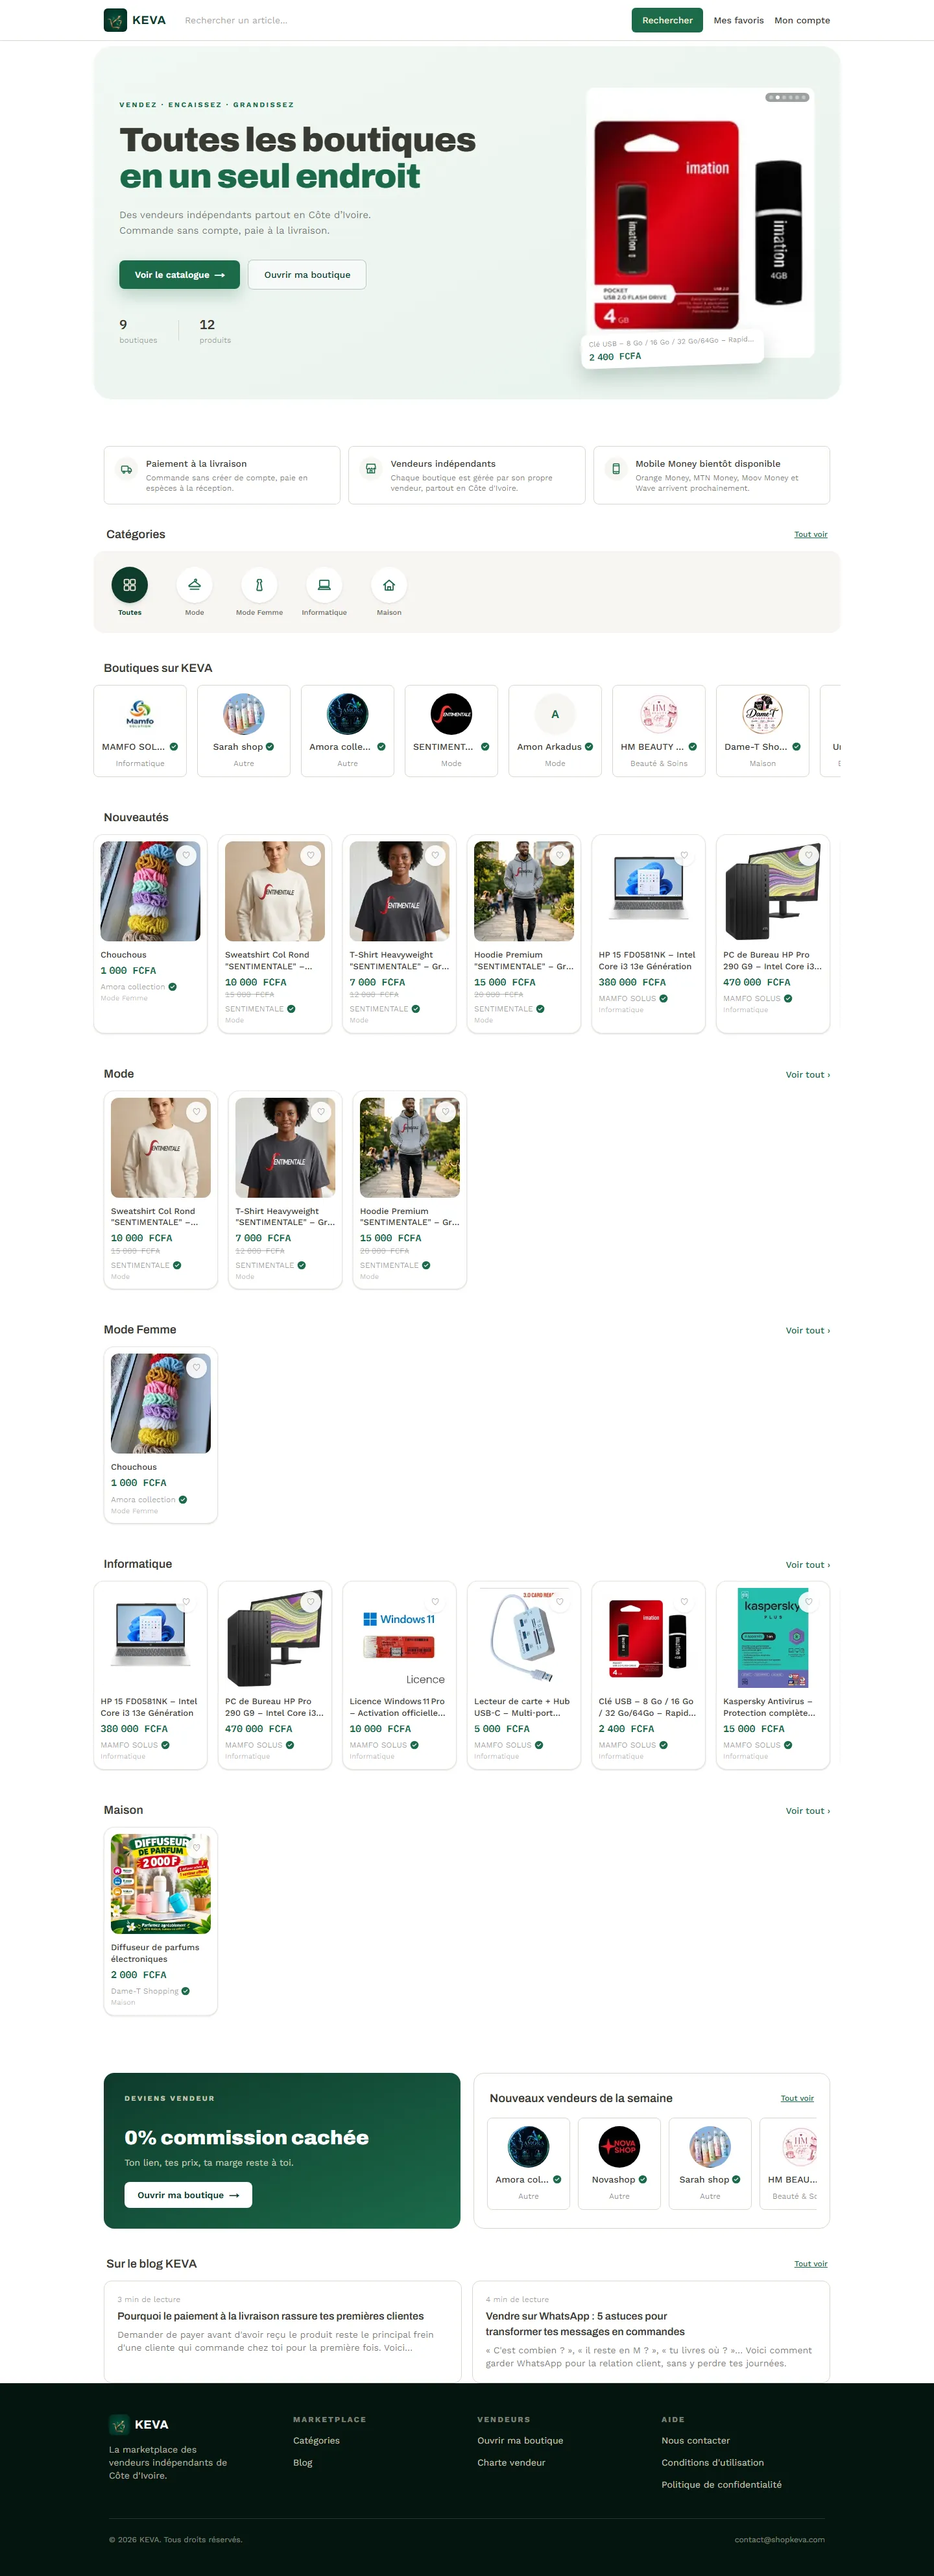
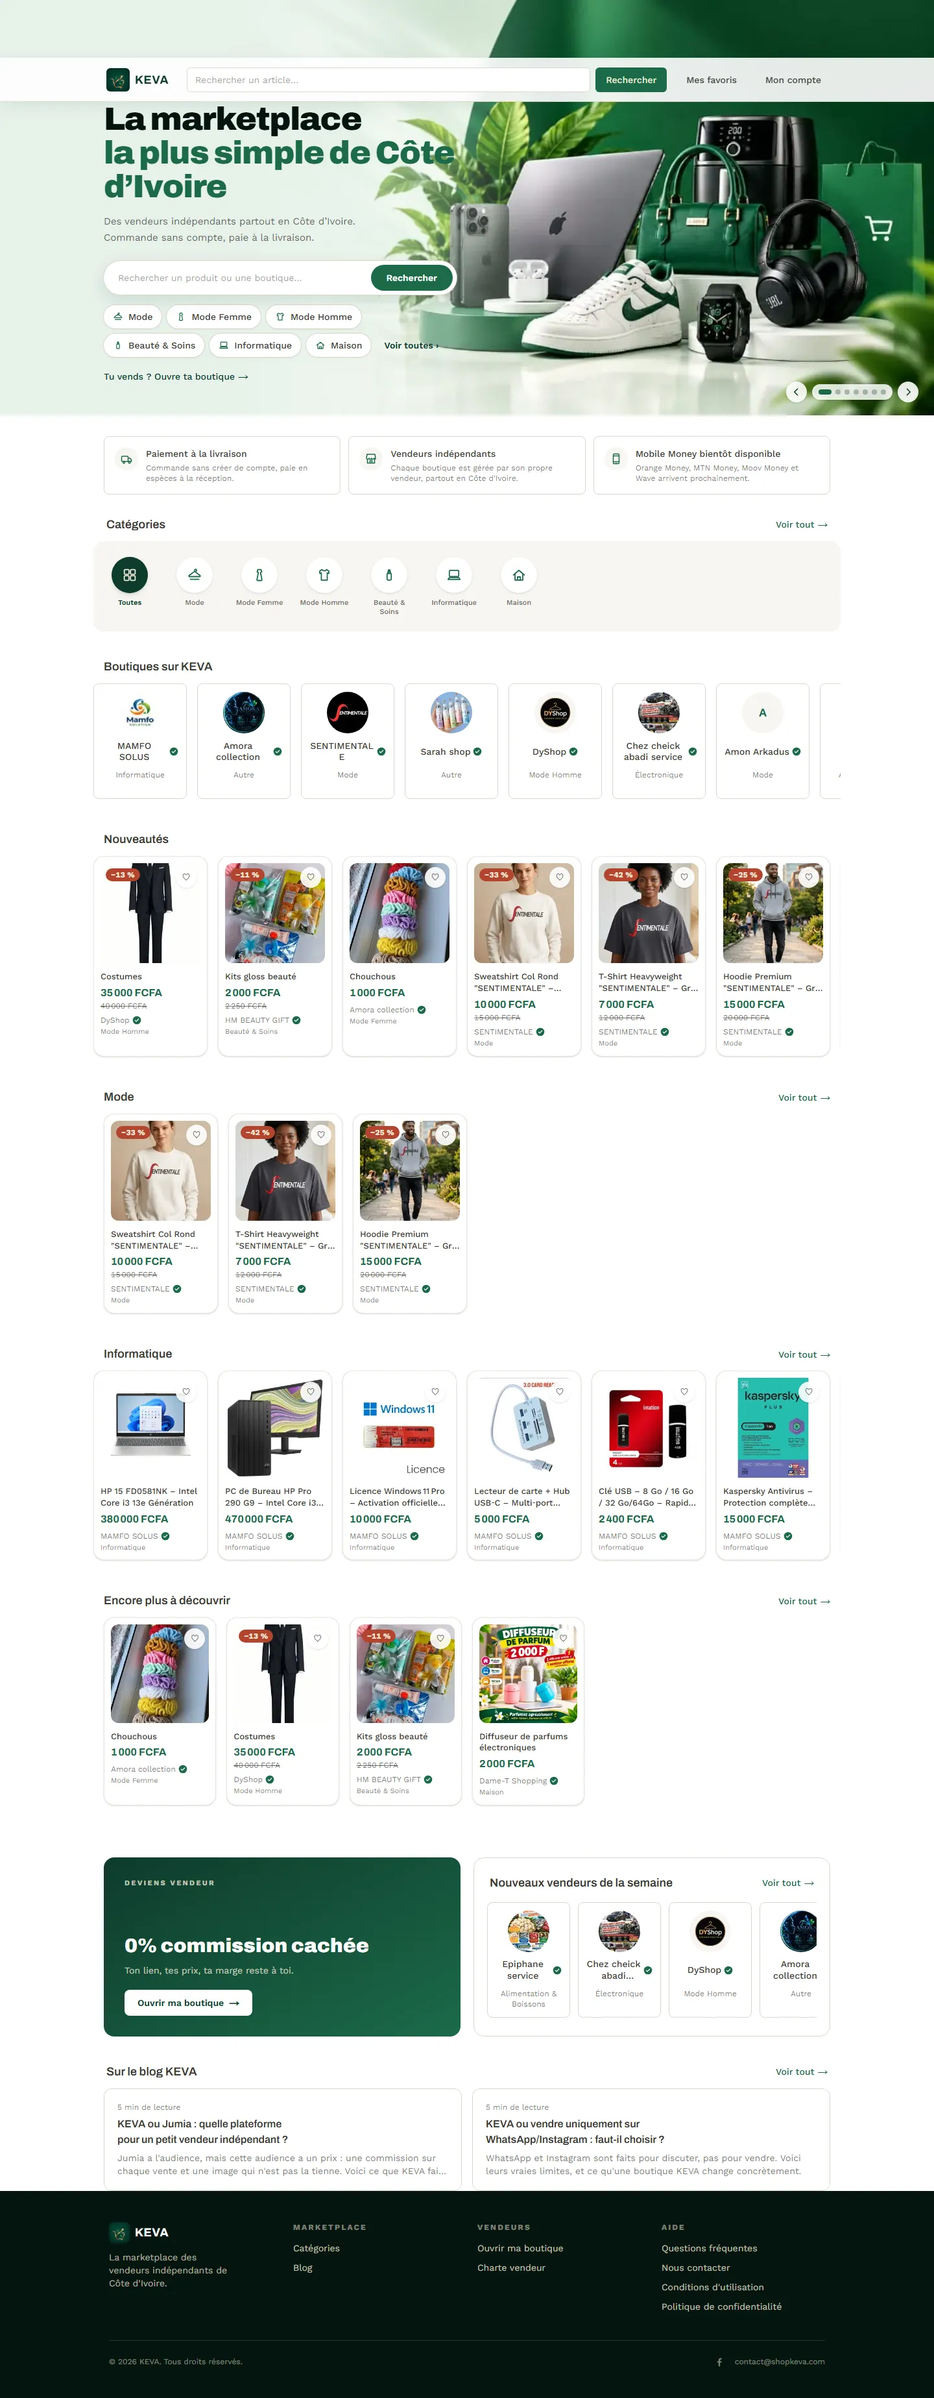
Portfolio : mise à jour de KEVA (nouvelles captures, description, sans commission)

diff --git a/js/projects-data.js b/js/projects-data.js
@@ -74,7 +74,7 @@ const PROJECTS = [
     year: "2026",
     tag: "SaaS · Marketplace",
     sectors: ["Marketplace", "Outil SaaS"],
-    pitch: "Une plateforme où chaque vendeur ouvre sa boutique en ligne et où les acheteurs commandent sans compte et paient à la livraison.",
+    pitch: "La marketplace des vendeurs indépendants de Côte d'Ivoire : chacun ouvre sa boutique sans commission, et les acheteurs commandent sans compte et paient à la livraison.",
     thumb: "images/projets/dev_web/keva/0-thumb.webp",
     gallery: [
       "images/projets/dev_web/keva/1.webp",
@@ -82,8 +82,8 @@ const PROJECTS = [
       "images/projets/dev_web/keva/3.webp",
       "images/projets/dev_web/keva/4.webp"
     ],
-    description: "Plateforme SaaS de marketplace et de boutiques en ligne pour la Côte d'Ivoire : chaque vendeur ouvre sa propre boutique (page dédiée, catalogue, fiches produit, contact WhatsApp), et les acheteurs parcourent toutes les boutiques au même endroit, par catégories, nouveautés et meilleures ventes, avec favoris et recherche. Commande sans création de compte et paiement à la livraison, charte vendeur et blog de conseils pour vendre en ligne. Pensée d'abord pour le mobile, avec une barre de navigation en bas de l'écran.",
-    tech: ["Next.js", "React", "Multi-vendeurs", "Paiement à la livraison", "Responsive design"],
+    description: "Marketplace pour les vendeurs indépendants de Côte d'Ivoire. Chaque vendeur ouvre sa propre boutique (page dédiée, catalogue, fiches produit, contact WhatsApp, livraison et prix affichés) sans commission sur ses ventes, et crée son compte en quelques minutes, par e-mail ou avec Google. Les acheteurs parcourent toutes les boutiques au même endroit : catégories, boutiques en vedette, nouveautés, meilleures ventes, nouveaux vendeurs de la semaine, favoris et recherche. Commande sans création de compte et paiement à la livraison ; le Mobile Money est annoncé. Charte vendeur, foire aux questions et blog de conseils pour vendre en ligne. Pensée d'abord pour le mobile.",
+    tech: ["Next.js", "React", "Multi-vendeurs", "Paiement à la livraison", "Connexion Google", "Responsive design"],
     link: "https://shopkeva.com/",
     linkLabel: "Découvrir la plateforme"
   },

diff --git a/index.html b/index.html
@@ -330,10 +330,10 @@
 </article>
 <article>
 <h3>KEVA — Plateforme SaaS · marketplace (2026)</h3>
-<p>Une plateforme où chaque vendeur ouvre sa boutique en ligne et où les acheteurs commandent sans compte et paient à la livraison.</p>
-<p>Plateforme SaaS de marketplace et de boutiques en ligne pour la Côte d'Ivoire : chaque vendeur ouvre sa propre boutique (page dédiée, catalogue, fiches produit, contact WhatsApp), et les acheteurs parcourent toutes les boutiques au même endroit, par catégories, nouveautés et meilleures ventes, avec favoris et recherche. Commande sans création de compte et paiement à la livraison, charte vendeur et blog de conseils pour vendre en ligne. Pensée d'abord pour le mobile, avec une barre de navigation en bas de l'écran.</p>
+<p>La marketplace des vendeurs indépendants de Côte d'Ivoire : chacun ouvre sa boutique sans commission, et les acheteurs commandent sans compte et paient à la livraison.</p>
+<p>Marketplace pour les vendeurs indépendants de Côte d'Ivoire. Chaque vendeur ouvre sa propre boutique (page dédiée, catalogue, fiches produit, contact WhatsApp, livraison et prix affichés) sans commission sur ses ventes, et crée son compte en quelques minutes, par e-mail ou avec Google. Les acheteurs parcourent toutes les boutiques au même endroit : catégories, boutiques en vedette, nouveautés, meilleures ventes, nouveaux vendeurs de la semaine, favoris et recherche. Commande sans création de compte et paiement à la livraison ; le Mobile Money est annoncé. Charte vendeur, foire aux questions et blog de conseils pour vendre en ligne. Pensée d'abord pour le mobile.</p>
 <p>Secteur : Marketplace, Outil SaaS.</p>
-<p>Technologies : Next.js, React, Multi-vendeurs, Paiement à la livraison, Responsive design.</p>
+<p>Technologies : Next.js, React, Multi-vendeurs, Paiement à la livraison, Connexion Google, Responsive design.</p>
 <p><a href="https://shopkeva.com/">Découvrir la plateforme</a></p>
 </article>
 <article>

diff --git a/projet/keva.html b/projet/keva.html
@@ -5,11 +5,11 @@
 <meta http-equiv="refresh" content="0; url=../index.html#projet-keva">
 <meta name="viewport" content="width=device-width, initial-scale=1.0">
 <title>KEVA — Portfolio Code A-Z</title>
-<meta name="description" content="Une plateforme où chaque vendeur ouvre sa boutique en ligne et où les acheteurs commandent sans compte et paient à la livraison.">
+<meta name="description" content="La marketplace des vendeurs indépendants de Côte d'Ivoire : chacun ouvre sa boutique sans commission, et les acheteurs commandent sans compte et paient à la livraison.">
 <meta name="robots" content="noindex, follow">
 <meta property="og:type" content="website">
 <meta property="og:title" content="KEVA — Code A-Z">
-<meta property="og:description" content="Une plateforme où chaque vendeur ouvre sa boutique en ligne et où les acheteurs commandent sans compte et paient à la livraison.">
+<meta property="og:description" content="La marketplace des vendeurs indépendants de Côte d'Ivoire : chacun ouvre sa boutique sans commission, et les acheteurs commandent sans compte et paient à la livraison.">
 <meta property="og:image" content="https://agnissanisaac.com/images/projets/dev_web/keva/0-og.jpg">
 <meta property="og:url" content="https://agnissanisaac.com/projet/keva.html">
 <link rel="canonical" href="https://agnissanisaac.com/projet/keva.html">
